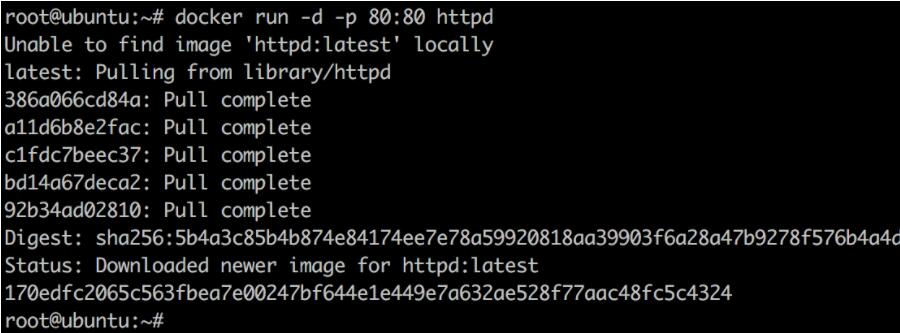
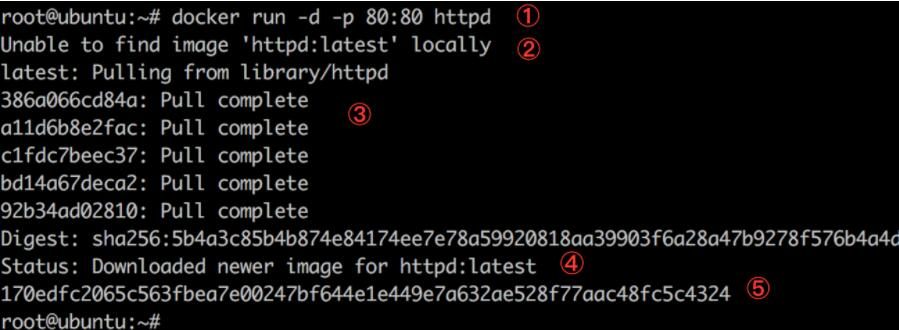
add log

Changed region(s): [[0.0, 0.2727, 1.0, 1.0], [0.0, 0.0, 0.6229, 0.2424], [0.3737, 0.303, 0.436, 0.3939]]

diff --git a/_posts/2018-3-1-UbuntuInstallDocker.md b/_posts/2018-3-1-UbuntuInstallDocker.md
@@ -90,6 +90,12 @@ sudo docker run -d -p 80:80 httpd
 
 通过浏览器验证容器是否正常工作。在浏览器中输入 http://[your ubuntu host IP]   
 ![](/images/posts/2018-3-1-UbuntuInstallDocker/UbuntuInstallDocker3.jpg)    
+其执行流程如下所示：
+> 1.Docker 客户端执行 docker run 命令。    
+> 2.Docker daemon 发现本地没有 httpd 镜像。    
+> 3.daemon 从 Docker Hub 下载镜像。    
+> 4.下载完成，镜像 httpd 被保存到本地。    
+> 5.Docker daemon 启动容器。    
 
 <br>
 ### 镜像下载加速    
